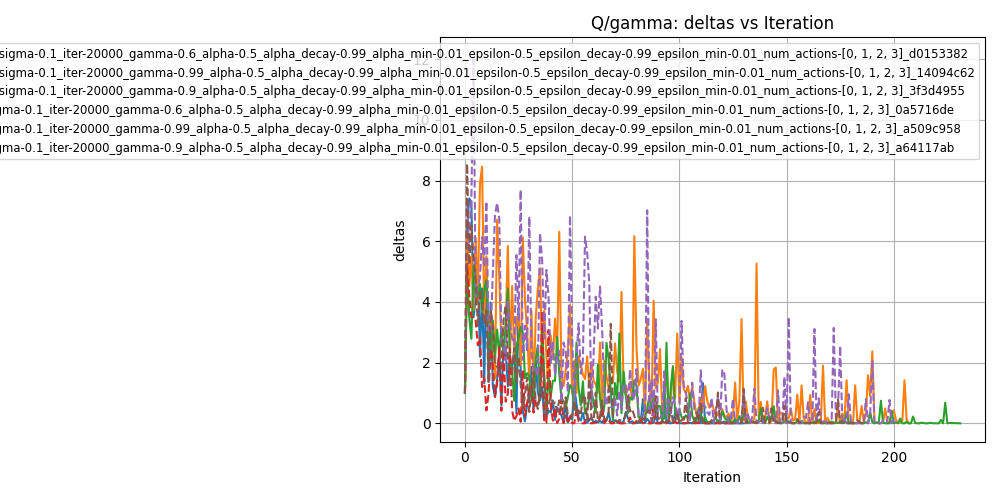
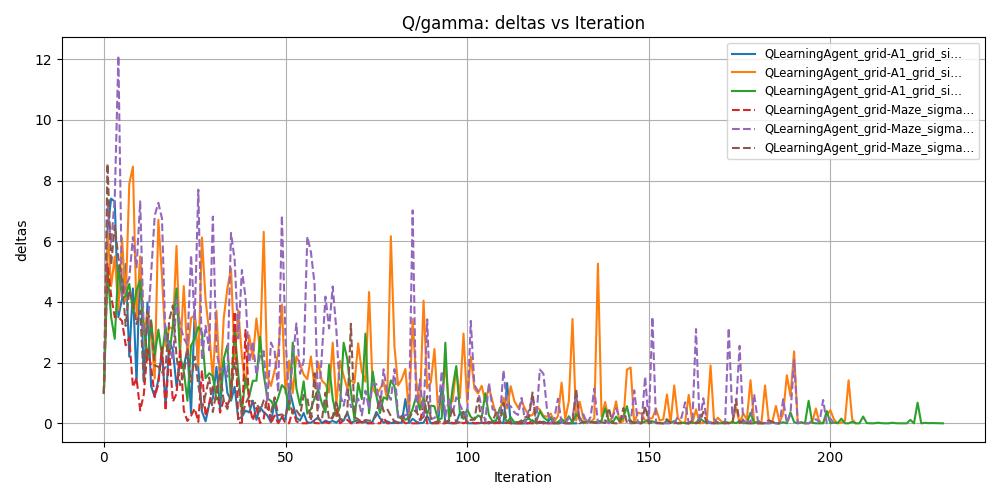
Updated plot labels

diff --git a/plots.py b/plots.py
@@ -20,7 +20,11 @@ def plot_lines_from_folder(folder_path, metric_keys, folder_name, subfolder_name
                 if metric in metrics:
                     # Use dashed line for maze
                     linestyle = '--' if 'grid-Maze' in fname else '-'
-                    label = fname.replace(".json", "")
+                    raw_label = fname[:-5]  # strip off ".json"
+                    if len(raw_label) > 30:
+                        label = raw_label[:30] + "…"
+                    else:
+                        label = raw_label
                     plt.plot(metrics[metric], label=label, linestyle=linestyle)
                     found = True
             except Exception as e:
